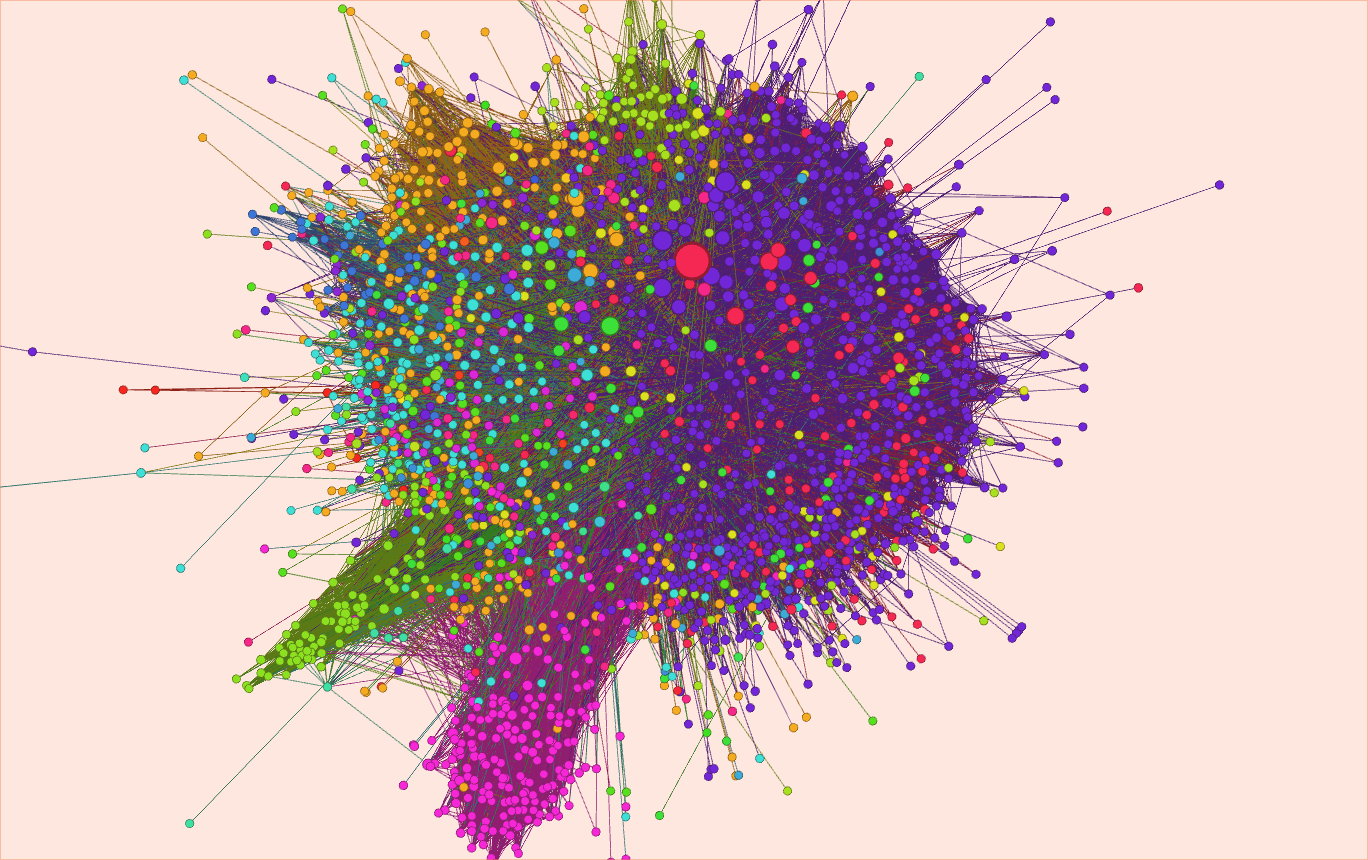
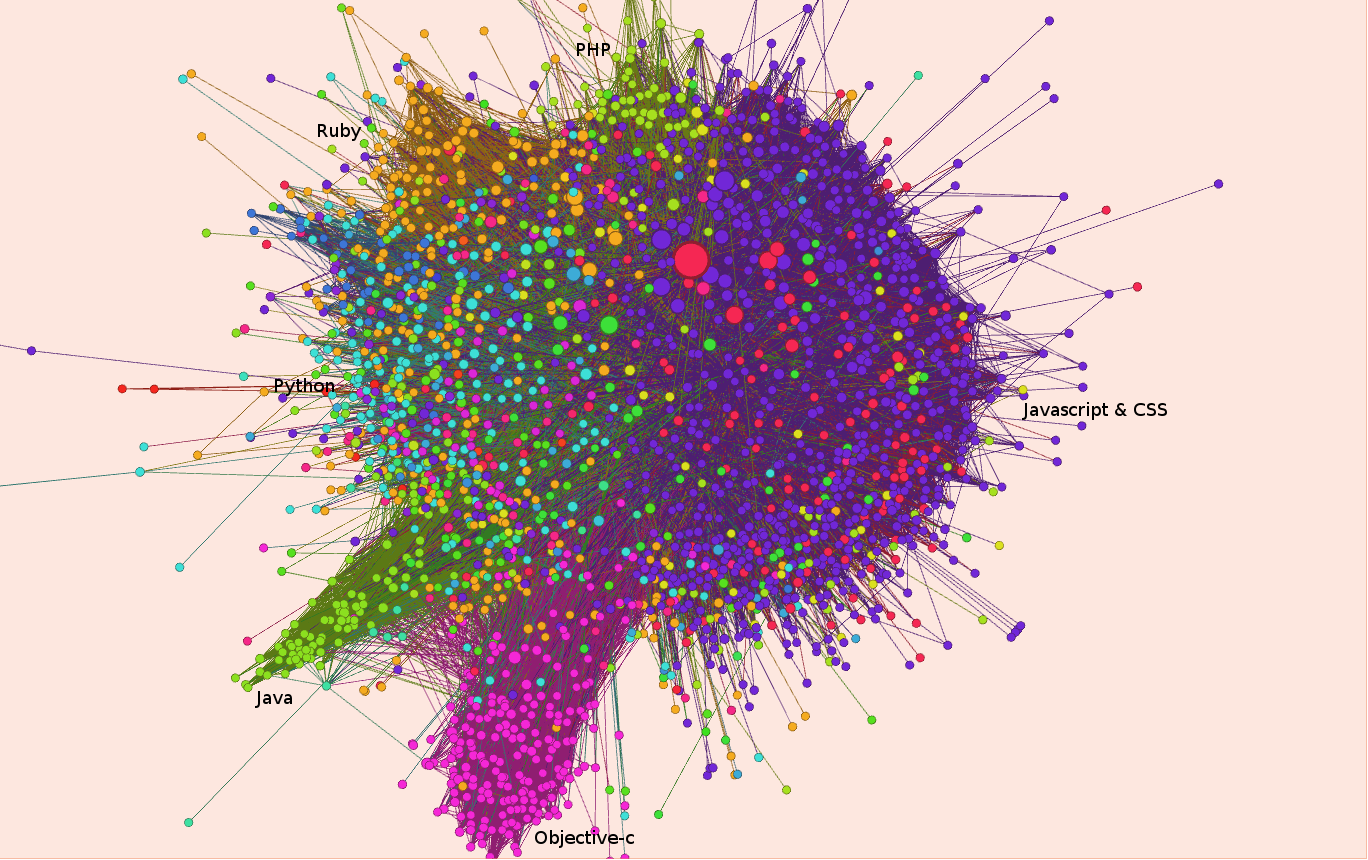
changes to make my point more clear, hopefully...

diff --git a/README.md b/README.md
@@ -19,9 +19,12 @@ To obtain computational data, please use caculate_data.py .
 Attaching a snapshot of Y14Q2 network.
 ![Plot](./report/Y14Q2_lang.png)
 
+The observations that I want to highlight:
+* languages correlate with communities distribution in general (which is also shown in other works, like [this](https://github.com/coyotebush/github-network-analysis))
+* over time, as more and more users coming into GitHub, new communities emerge, e.g. Java, Objective-C
+* some repositories may drive people's (who may have different languages preferences) attention in some period of time, but later fall into less known; while others may be continuously popular, of a milder level
+
 Have fun!
 
-Cheers,
-
-Jiacheng Pan<br>[jiacheng.pan.sh@gmail.com](mailto:jiacheng.pan.sh@gmail.com)
+Cheers,<br>Jiacheng Pan<br>[jiacheng.pan.sh@gmail.com](mailto:jiacheng.pan.sh@gmail.com)
 
